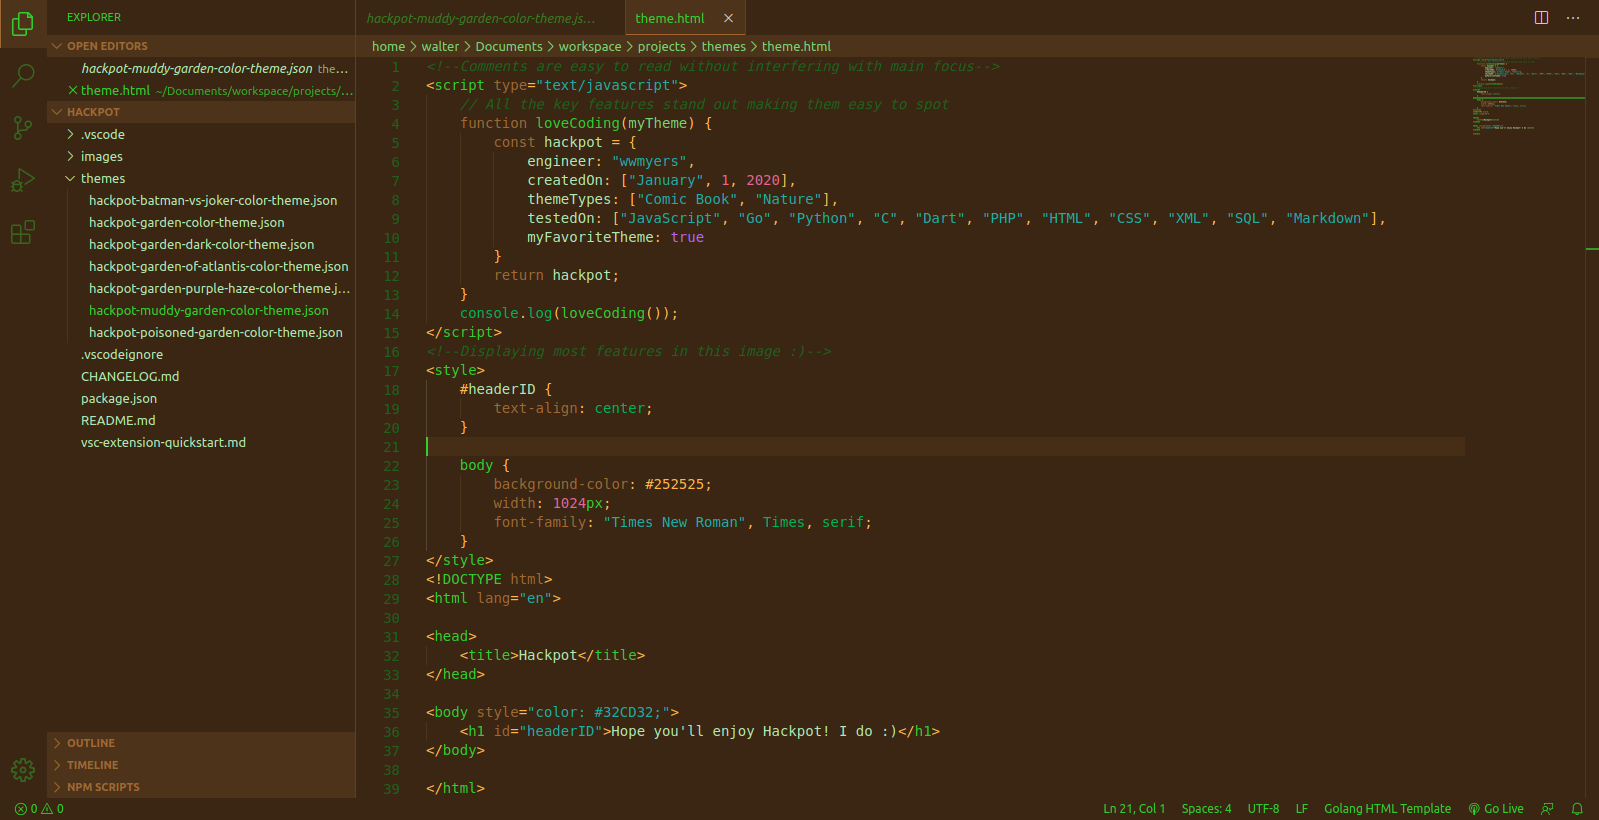
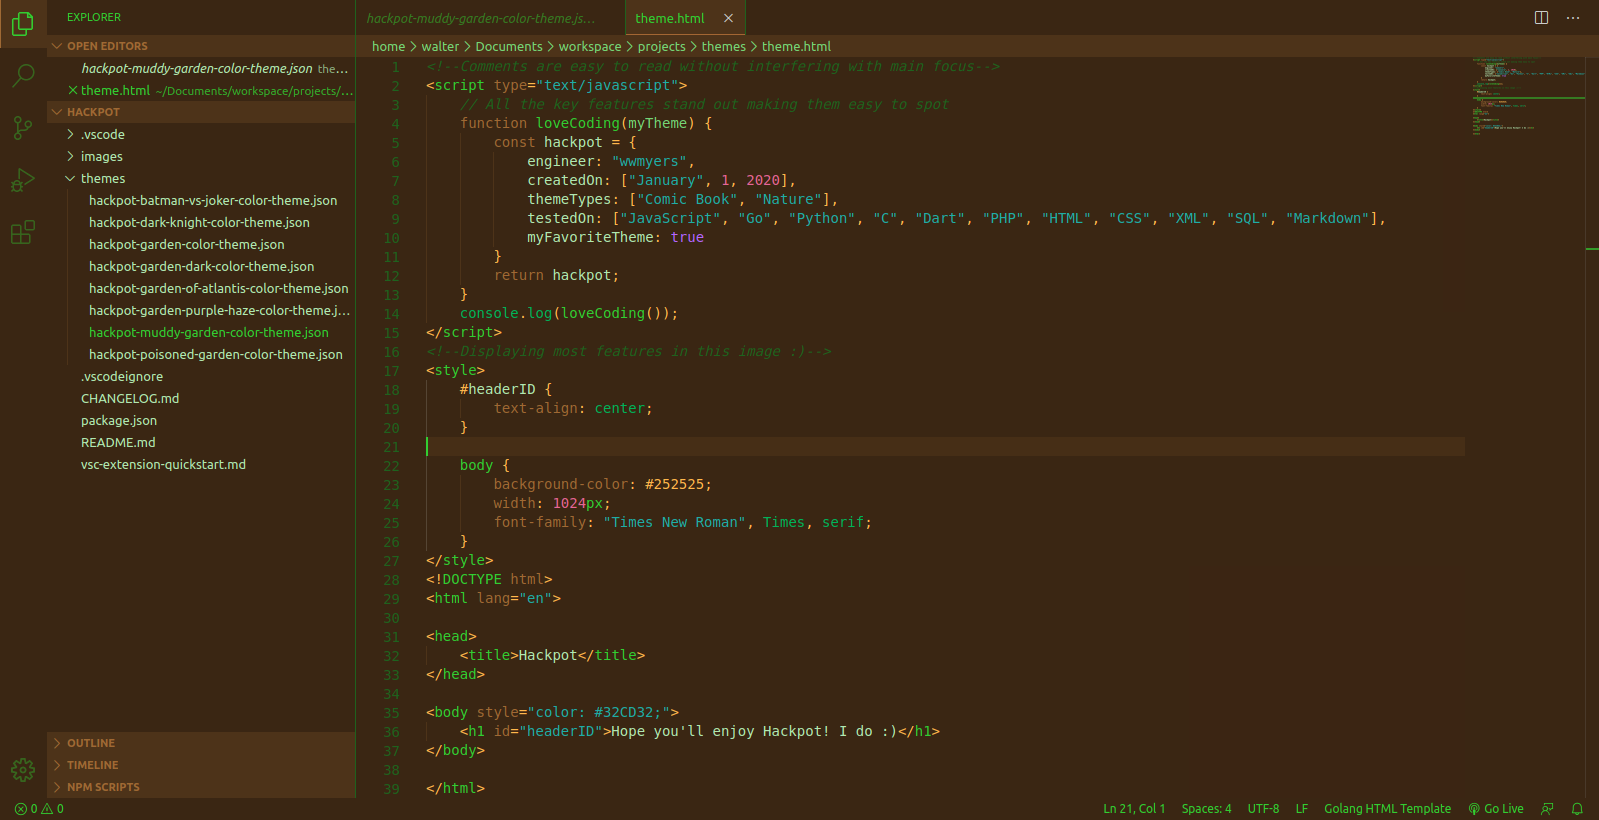
Add files via upload

Changed region(s): [[0.0306, 0.2439, 0.2145, 0.5793]]

diff --git a/README.md b/README.md
@@ -1,7 +1,8 @@
 # Hackpot
 
-#### Comic Book Theme
+#### Comic Book Themes
 * Hackpot Batman vs Joker (classic meets modern)
+* Hackpot Dark Knight
 
 #### Garden Theme With 6 Background Color Options
 * Hackpot Garden (original)
@@ -13,6 +14,9 @@
 
 Hackpot Batman vs Joker
 ![hackpot](https://github.com/wwmyers/hackpot/raw/master/images/hackpotbatmanvsjoker.png)
+
+Hackpot Dark Knight
+![hackpot](https://github.com/wwmyers/hackpot/raw/master/images/hackpotdarkknight.png)
 
 Hackpot Garden
 ![hackpot](https://github.com/wwmyers/hackpot/raw/master/images/hackpotgarden.png)
@@ -33,7 +37,7 @@ Hackpot Poisoned Garden
 ![hackpot](https://github.com/wwmyers/hackpot/raw/master/images/hackpotpoisonedgarden.png)
 
 #### My personal favorites are :)
-1. Batman vs Joker
+1. Dark Knight
 2. Garden (original)
 3. Garden Of Atlantis
 

diff --git a/CHANGELOG.md b/CHANGELOG.md
@@ -3,6 +3,9 @@
 #### All notable changes to the "Hackpot" extension will be documented in this file
 
 ### Apr 26 2020
+* Added new theme Dark Knight
+  * Same as Batman vs Joker, but with a dark blue background
+* Slightly darkened the Batman vs Joker main foreground color to be easier on the eyes
 * Switched the tan and the sea green on the garden themes
   * Languages like Dart that has a lot of support functions, displayed too much tan
 
